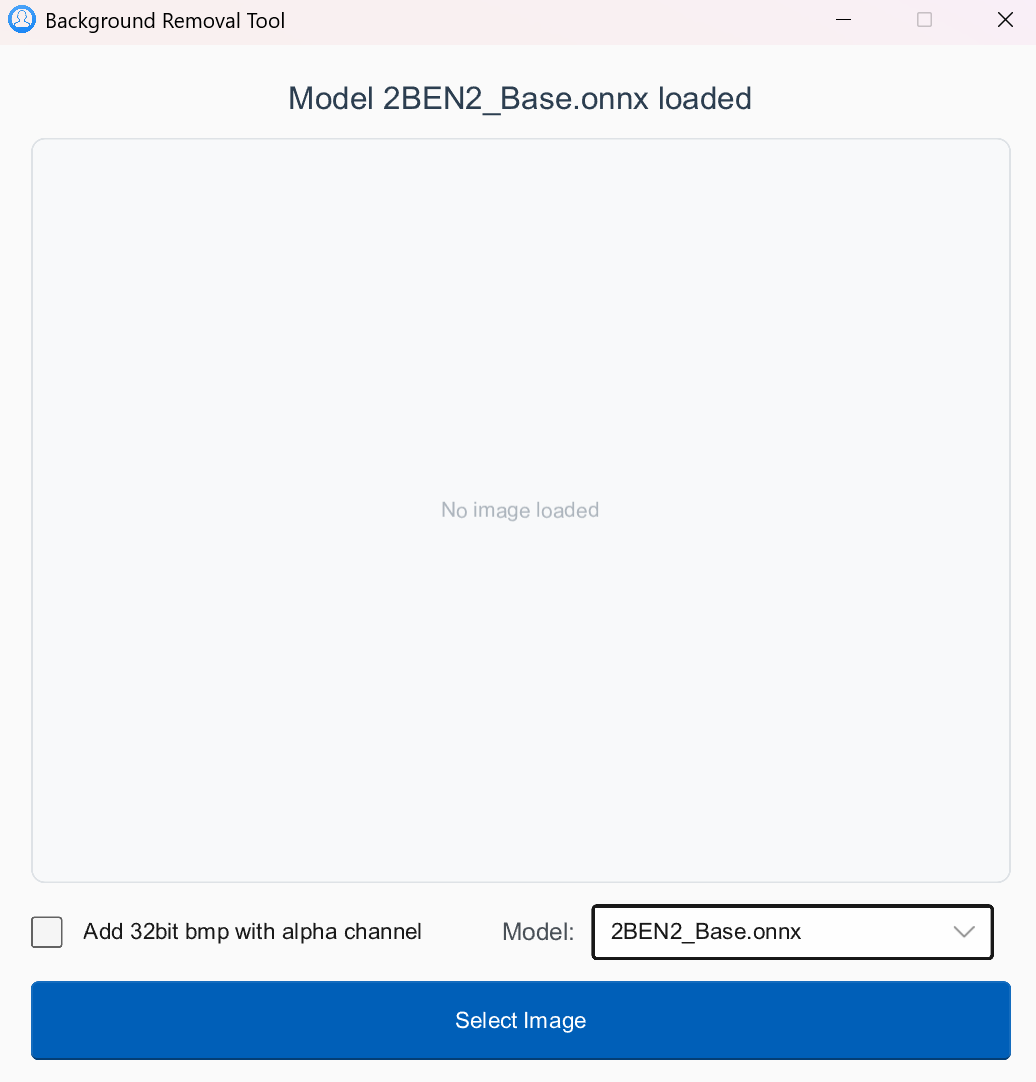
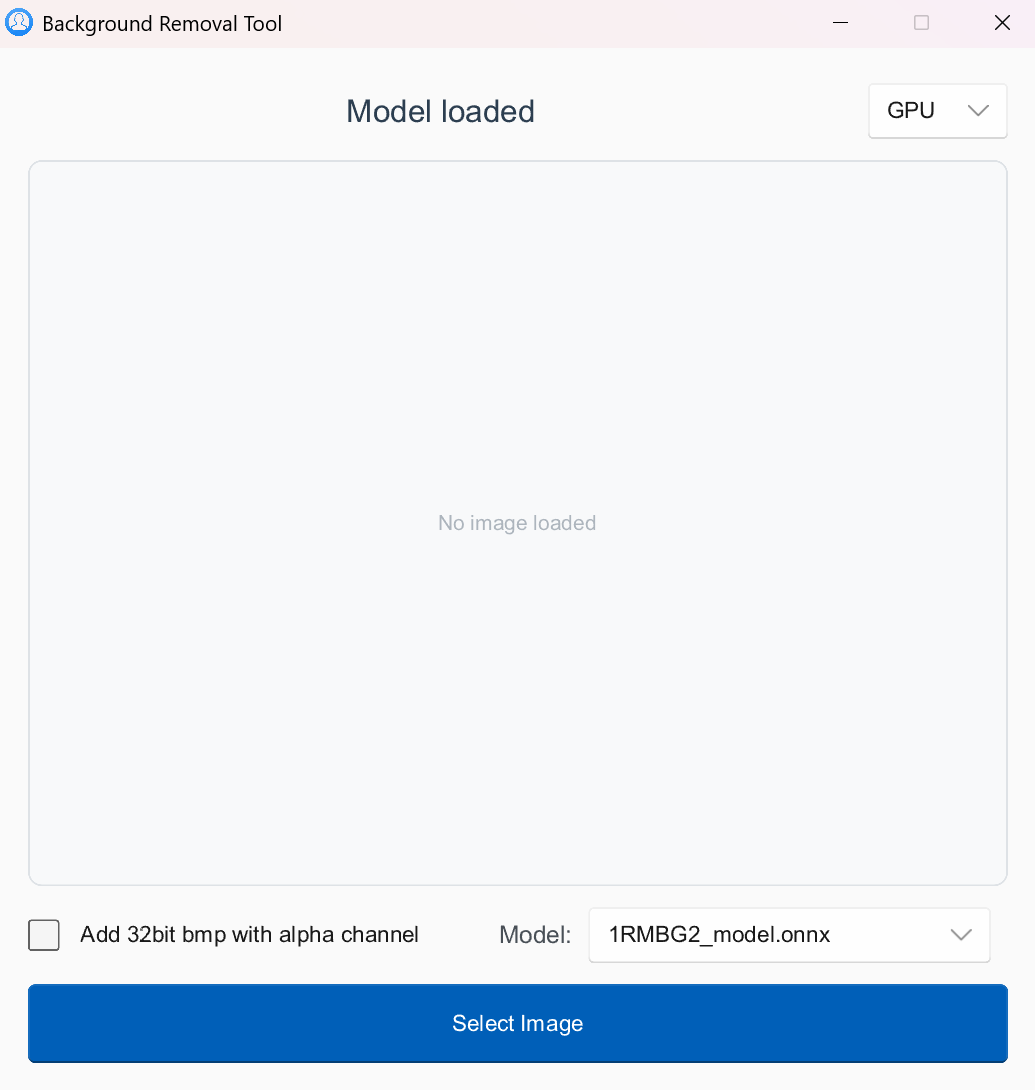
v1.0.3

diff --git a/src/main.rs b/src/main.rs
@@ -134,7 +134,7 @@ fn main() -> Result<(), slint::PlatformError> {
                 .with_intra_threads(4)
                 .unwrap();
                 
-            if execution_mode_str == "GPU (Default)" {
+            if execution_mode_str == "GPU" {
                 if let Ok(b) = builder.clone().with_execution_providers([
                     ort::ep::CUDA::default().build(),
                     ort::ep::DirectML::default().build(),
@@ -190,7 +190,7 @@ fn main() -> Result<(), slint::PlatformError> {
                     .with_intra_threads(4)
                     .unwrap();
                     
-                if execution_mode_str == "GPU (Default)" {
+                if execution_mode_str == "GPU" {
                     if let Ok(b) = builder.clone().with_execution_providers([
                         ort::ep::CUDA::default().build(),
                         ort::ep::DirectML::default().build(),
@@ -246,7 +246,7 @@ fn main() -> Result<(), slint::PlatformError> {
                     .with_intra_threads(4)
                     .unwrap();
                     
-                if mode_str == "GPU (Default)" {
+                if mode_str == "GPU" {
                     if let Ok(b) = builder.clone().with_execution_providers([
                         ort::ep::CUDA::default().build(),
                         ort::ep::DirectML::default().build(),

diff --git a/README.md b/README.md
@@ -10,6 +10,7 @@ A high-performance image background removal tool written in Rust, featuring a mo
 - **BEN2 & RMBG Support**: Optimized preprocessing for different model flavors. BEN2 models are automatically detected (based on "ben2" in the filename) for correct normalization.
 - **Improved Tensor Handling**: Built-in support for both `f32` and `f16` (Half-Precision) output tensors, ensuring compatibility with a wider range of optimized models.
 - **Hardware Acceleration**: Leverages GPU acceleration (CUDA and DirectML) to perform fast local background removal.
+- **CPU Fallback Mode**: Built-in toggle to switch between GPU and CPU execution modes directly from the UI. Use CPU mode if you encounter Out of Memory errors or other GPU related errors during processing.
 - **Batch Processing**: Supports dragging and dropping multiple images at once, processing them sequentially with a real-time progress bar.
 - **32-bit BMP Support**: Option to export results as 32-bit BMP files with an alpha channel, ideal for legacy software compatibility.
 - **Drag & Drop Support**: Seamlessly select images by dragging and dropping them directly onto the application window (custom OLE Drag'n'Drop hooking on Windows).
@@ -30,6 +31,7 @@ Before building and running the application, ensure you have the following requi
 > **Memory Usage Note:**
 > - Models larger than **1GB** require at least **16GB of system RAM**.
 > - For systems with lower specifications, it is recommended to use smaller models **under 500MB** (such as `fp16` variants) to avoid memory issues.
+> - **Out of Memory Errors:** If you encounter an "out of memory" error or other GPU related errors during processing, try switching the execution mode from "GPU" to "CPU" using the dropdown at the top right of the application.
 
 
 ### 📥 Download
@@ -64,13 +66,14 @@ cargo run --release
 ```
 
 ## Usage
-
+ 
 1. **Launch the application**: Run the `rust_rmbg` executable.
 2. **Select Model**: Use the **"Model:"** dropdown to select from available `.onnx` files in the app folder.
-3. **Configure Options**: Toggle the **"Add 32bit bmp with alpha channel"** checkbox if you need BMP output in addition to PNG.
-4. **Select images**: Drag and drop one or multiple `.png`, `.jpg`, `.jpeg`, or `.bmp` files into the main window, or use the **"Select Image"** button.
-4. **Processing**: The application will process files sequentially. A progress bar will indicate the current status and overall batch progress.
-5. **Save**: Resulting images are saved automatically in the same folder as the original files:
+3. **Select Execution Mode**: Choose between **"GPU"** (default) or **"CPU"** mode using the dropdown in the top right corner. Switch to **"CPU"** if you experience Out of Memory errors.
+4. **Configure Options**: Toggle the **"Add 32bit bmp with alpha channel"** checkbox if you need BMP output in addition to PNG.
+5. **Select images**: Drag and drop one or multiple `.png`, `.jpg`, `.jpeg`, or `.bmp` files into the main window, or use the **"Select Image"** button.
+6. **Processing**: The application will process files sequentially. A progress bar will indicate the current status and overall batch progress.
+7. **Save**: Resulting images are saved automatically in the same folder as the original files:
    - Always saves as `[filename]_rmbg.png` (with transparency).
    - If enabled, also saves as `[filename]_rmbg.bmp` (32-bit with alpha channel).
 
